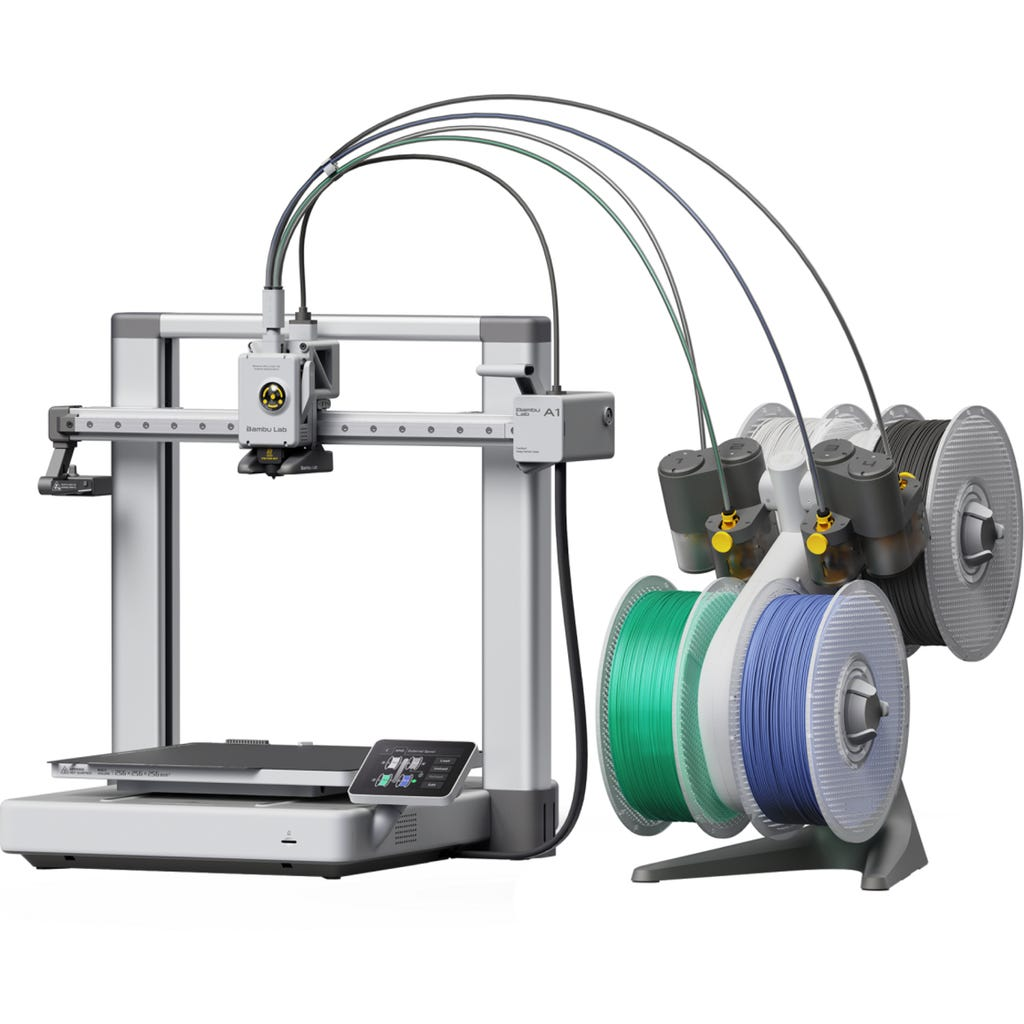
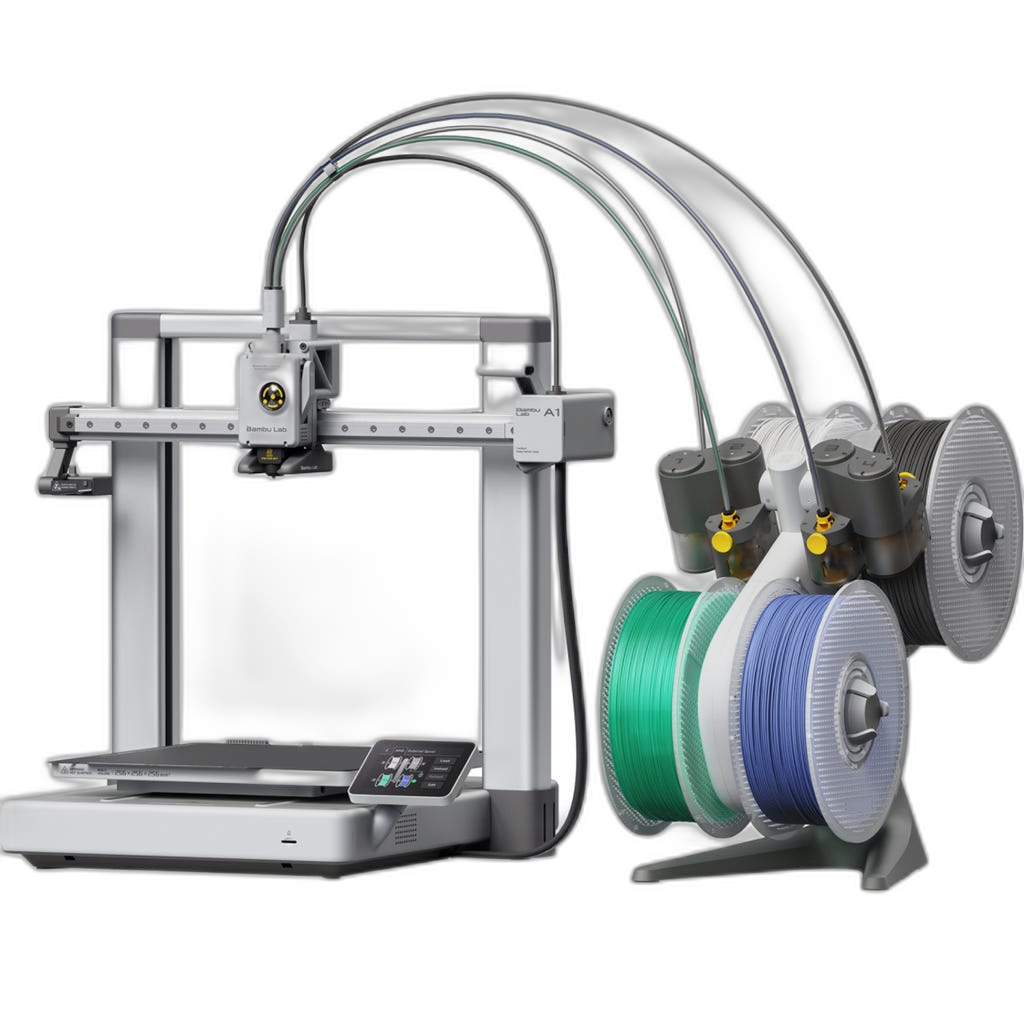
Remove white backgrounds from gear product photos

diff --git a/data/gear.ts b/data/gear.ts
@@ -29,7 +29,7 @@ export const gear: GearItem[] = [
     description: "Desktop soft plastic injection machine I use with 3D printed molds. Makes custom softbaits in minutes, pairs perfectly with a Bambu printer.",
     category: "3D Printing",
     link: "https://saltgator.com/SA15",
-    image: "/gear/saltgator.jpg",
+    image: "/gear/saltgator.png",
     discount: "SA15 — 15% off",
   },
   {
@@ -37,7 +37,7 @@ export const gear: GearItem[] = [
     description: "The enclosure I use for my Bambu Lab printer. Huge quality improvement for ABS/ASA and keeps the noise down.",
     category: "3D Printing",
     link: "https://www.amazon.com/Enclosure-Transparent-Isolation-Constant-Temperature/dp/B0G1RGZMHX",
-    image: "/gear/topcube1.jpg",
+    image: "/gear/topcube1.png",
   },
   {
     name: "Bambu Lab A1 Combo",
@@ -58,21 +58,21 @@ export const gear: GearItem[] = [
     description: "Compact cordless electric screwdriver for precision work on electronics and small devices. 50 magnetic bits, up to 0.6N·m torque — great for phones, cameras, and laptops.",
     category: "Tools",
     link: "https://www.amazon.com/dp/B0DSVKLNQR",
-    image: "/gear/fanttik-e2-ultra.jpg",
+    image: "/gear/fanttik-e2-ultra.png",
   },
   {
     name: "Fanttik F2 Pro",
     description: "Compact multi-function tool I use around the shop. Solid build quality from Fanttik.",
     category: "Tools",
     link: "https://www.amazon.com/dp/B0DRXRH9DQ",
-    image: "/gear/fanttik-f2-pro.jpg",
+    image: "/gear/fanttik-f2-pro.png",
   },
   {
     name: "Fanttik T1 Max Soldering Iron Kit",
     description: "Portable soldering iron for quick electronics work. Heats up fast and the cordless form factor is great for the bench.",
     category: "Tools",
     link: "https://www.amazon.com/dp/B0D41ZMDPD",
-    image: "/gear/fanttik-soldering-iron.jpg",
+    image: "/gear/fanttik-soldering-iron.png",
   },
   {
     name: "Fanttik NEX S2 Pro",
